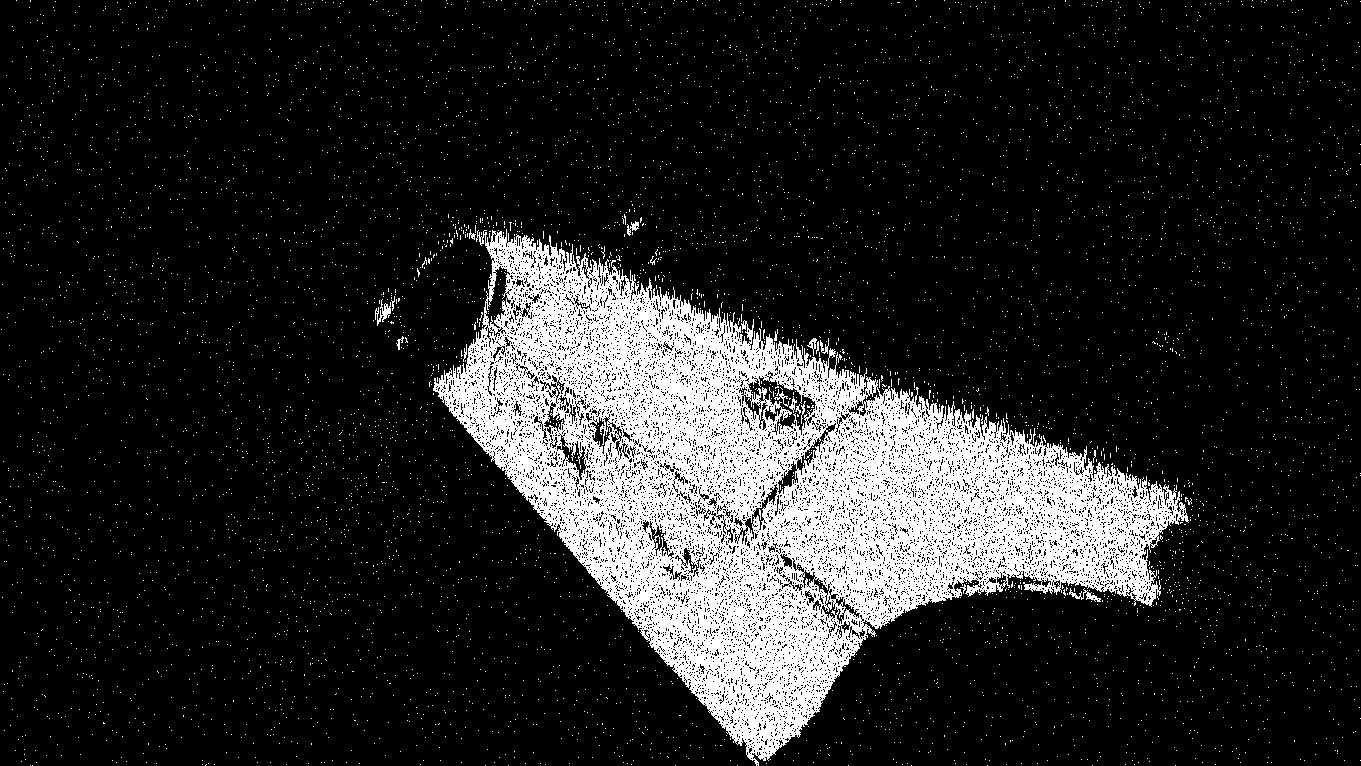
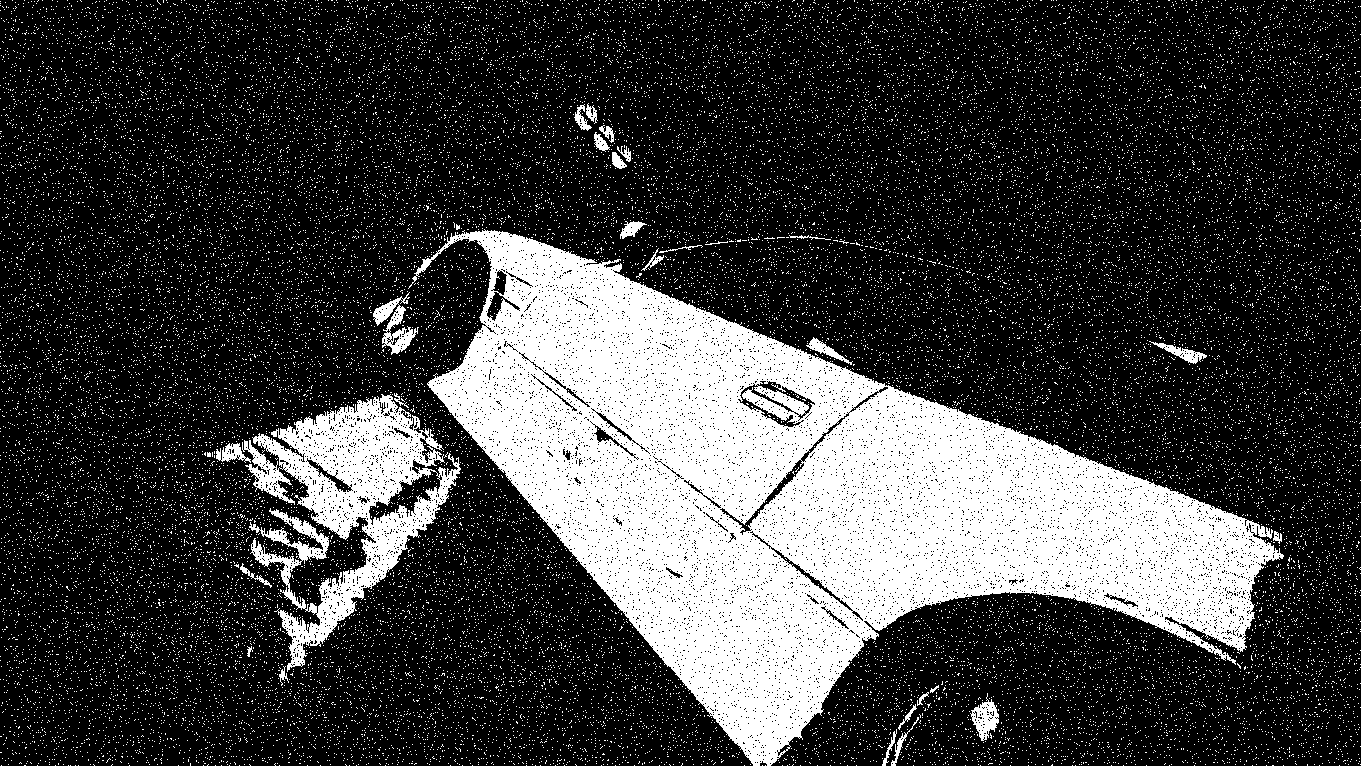
added input for text along edge

diff --git a/main.py b/main.py
@@ -23,7 +23,7 @@ class GlitchApp:
         self.sidebar = tk.Frame(self.root, width=220, bg="#2e2e2e")
         self.sidebar.pack(side="left", fill="y", padx=5, pady=5)
 
-        tk.Label(self.sidebar, text="GLITCHES PIPELINE", bg="#2e2e2e", fg="white", font=('Arial', 10, 'bold')).pack(pady=5)
+        tk.Label(self.sidebar, text="FX PIPELINE", bg="#2e2e2e", fg="white", font=('Arial', 10, 'bold')).pack(pady=5)
 
         # Pipeline Display
         self.listbox = tk.Listbox(self.sidebar, height=15, bg="#1e1e1e", fg="white", selectbackground="#4a4a4a")
@@ -86,7 +86,7 @@ class GlitchApp:
                 self.processor.add(ImageModifier.noiseGenerator, val)
                 self.listbox.insert(tk.END, f"Noise ({val}%)")
 
-        elif effect == "Binarize":
+        elif effect == "Binarize":  
             val = simpledialog.askinteger("Binarize", "Threshold (0-255):", initialvalue=128)
             if val is not None:
                 self.processor.add(ImageModifier.binarize, val)
@@ -112,9 +112,17 @@ class GlitchApp:
             self.processor.add(ImageModifier.edgeDetect)
             self.listbox.insert(tk.END, "Edge Detection")
 
-        # elif effect == "Text along edges":
-        #     words = 
-        #     self.processor.add(ImageModifier.textAlongEdge, )
+        elif effect == "Text along edges":
+            input = simpledialog.askstring("Input", "Enter words separated by commas (e.g. Hate, Life, Joy):", initialvalue="GLITCH, ERROR, SYSTEM")
+
+            if input:
+                words_list = [w.strip() for w in input.split(",")]
+                threshold = simpledialog.askinteger("Input", "Edge threshold (0-255):", initialvalue=128)
+                space = simpledialog.askinteger("Input", "Spacing:", initialvalue=20)
+
+                if threshold is not None and space is not None:
+                    self.processor.add(ImageModifier.textAlongEdge, words_list, threshold, space)
+                    self.listbox.insert(tk.END, f"TextEdge ({len(words_list)} words)")
 
     def remove_effect(self):
         selection = self.listbox.curselection()
